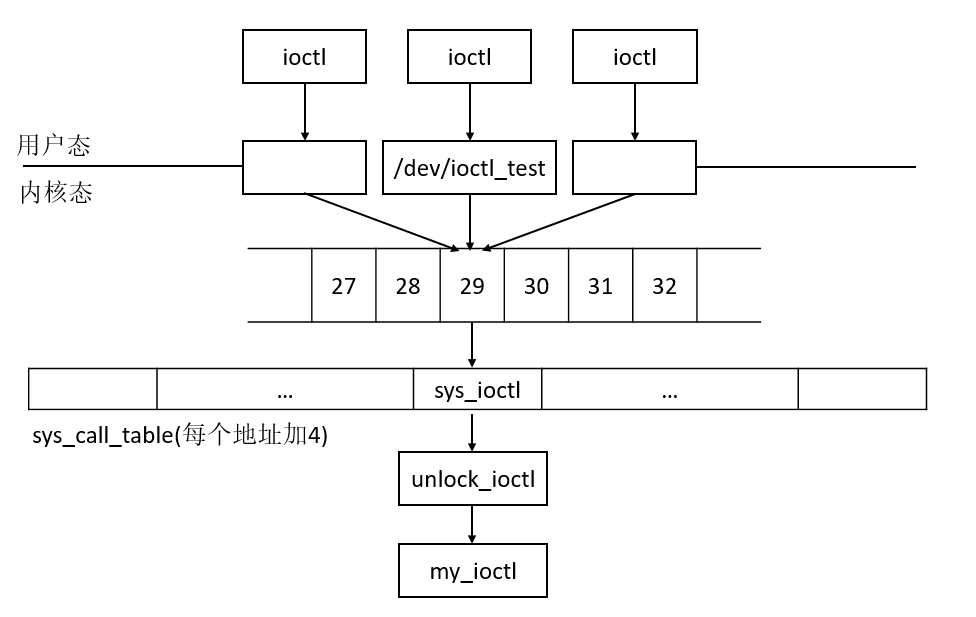
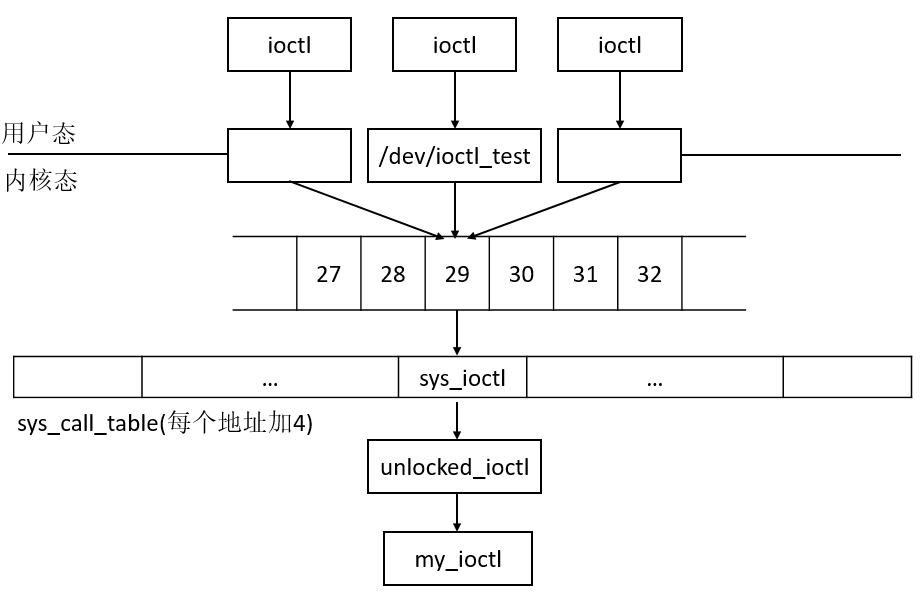
【CoolFly】【需求】【博客】【详细描述：CoolFly的第75次提交，ioctl的内容更新1次】【功能影响：ioctl的内容更新1次】【验证：自测ok】

Changed region(s): [[0.0, 0.0297, 1.0, 0.9802]]

diff --git a/2022/07/ioctl通信方式之初出茅庐/index.html b/2022/07/ioctl通信方式之初出茅庐/index.html
@@ -276,25 +276,64 @@
 </div>
           
 		  
-		  <h5 id="wc" style="font-size: 1rem;text-align: center;">1600 Words|Read in about 8 Min|本文总阅读量<span id="busuanzi_value_page_pv"></span>次</h5>
+		  <h5 id="wc" style="font-size: 1rem;text-align: center;">1900 Words|Read in about 9 Min|本文总阅读量<span id="busuanzi_value_page_pv"></span>次</h5>
 		  
           <div class="post-content markdown" itemprop="articleBody">
             <div class="main-content-wrap">
               <p>我们通常用ioctl函数直接访问到内核，在内核执行操作，执行读写操作。那么这个函数指令的原理是什么，本文就展开介绍和使用一下ioctl。</p>
 <h1 id="1ioctl简介">1ioctl简介</h1>
-<p>2.1 ioctl通信方式</p>
-<p>2.1.1 概述</p>
-<p>从ioctl这个名称上看,它是设备驱动程序中对设备的I/O通道进行管理的函数。所谓对I/O通道进行管理，就是对设备的一些特性进行控制。例如串口的传输波特率、马达的转速等等, 但实际上ioctl所处理的对象并不限制是真正的I/O设备，还可以是其它任何一个内核设备。</p>
-<p>ioctl以系统调用的形式提供了一条用户与内核交互的便捷途径。ioctl 这种方式的特点是用户层为主动，当用户层通过ioctl下发指令，内核给出相应的操作，具体的细节由自己实现的代码决定。</p>
-<p>2.1.2 基本原理</p>
-<p>内核实现ioctl()函数的是sys_ioctl().在内核中主要调用框架图如下,它清晰地给我们展示了ioctl的控制传递框架</p>
+<h2 id="11什么是ioctl">1.1什么是ioctl</h2>
+<blockquote>
+<p>从ioctl这个名称上看，它是设备驱动程序中对设备的I/O通道进行管理的函数。</p>
+<p>所谓对I/O通道进行管理，就是对设备的一些特性进行控制。例如串口的传输波特率、马达的转速等等, 但实际上<strong>ioctl所处理的对象并不限制是真正的I/O设备</strong>，还可以是其它任何一个内核设备。</p>
+</blockquote>
+<p>说白了，ioctl以系统调用的形式提供了一<strong>条用户与内核交互的便捷途径</strong>。ioctl 这种方式的特点是用户层为主动，当用户层通过ioctl下发指令，内核给出相应的操作，具体的细节由自己实现的代码决定。</p>
+<h2 id="12-基本原理">1.2 基本原理</h2>
 <p>kernel3.0之前，叫ioctl，之后改名为unlocked_ioctl。功能和接口基本相同，名字发生了变化</p>
 <p>ioctl既可以往内核读也可以写，read/write在执行大数据量读/写时比较有优势。</p>
-<p>在应用层调用ioctl函数时，内核会调用对应驱动中的ublocked_ioctl函数，向内核读写数据。</p>
+<p>在应用层调用ioctl函数时，内核会调用对应驱动中的unlocked_ioctl函数，向内核读写数据。</p>
 <p>笔者这里的kernel直接参考<a href="https://git.kernel.org/pub/scm/linux/kernel/git/torvalds/linux.git/tree/?h=v5.19-rc7">最新</a>的kernel-v5.19源码来分析。</p>
+<p>内核实现ioctl()函数的是sys_ioctl()。内核中主要调用框架图如下图所示</p>
+
+
+ 
+  
+  
+  
+  
+    
+  
+    
+      
+    
+  
+    
+      
+    
+  
+
+<div class="figure center fig-100" >
+  
+    <a class="fancybox" href="https://yangyang48.github.io/ioctl/ioctl_4.png" data-fancybox-group="">
+  
+    <img class="fig-img" src="https://yangyang48.github.io/ioctl/ioctl_4.png" >
+  
+    </a>
+  
+  
+</div>
+
+<blockquote>
+<p>至于为什么在驱动层中还会看到<code>compat_ioctl</code></p>
+<p>这是因为为了<strong>相容性</strong>而出现的<code>compat_ioctl</code>。为了让32-bit的进程可以在64-bit上的system来执行ioctl这个函数。</p>
+</blockquote>
 <h1 id="2通信流程">2通信流程</h1>
 <h2 id="21调用用户态的ioctl函数">2.1调用用户态的ioctl函数</h2>
-<h2 id="22在系统调用表中找到ioctl函数对应的函数名">2.2在系统调用表中找到ioctl函数对应的函数名</h2>
+<p>在用户态只有函数的声明，最终的实现是在内核态，也就是内核态封装了一个函数可以用于用户态的调用。</p>
+<p>驱动程序中的ioctl属于内核空间，然而应用程序属于用户空间，没有权限访问内核空间，那么需要系统需要从用户态转为内核态，在系统调用中，是通过**<code>SWI</code>(Software Interrupt)的方式**陷入内核态的，这里实际上是一个靠**软中断**实现的。</p>
+<div class="highlight"><pre class="chroma"><code class="language-c" data-lang="c"><span class="ln">1</span><span class="c1">//development/ndk/platforms/android-30/include/sys/ioctl.h
+</span><span class="ln">2</span><span class="c1"></span><span class="kt">int</span> <span class="nf">ioctl</span><span class="p">(</span><span class="kt">int</span> <span class="n">fd</span><span class="p">,</span> <span class="kt">int</span> <span class="n">cmd</span><span class="p">,</span> <span class="p">...)</span> <span class="p">;</span>
+</code></pre></div><h2 id="22在系统调用表中找到ioctl函数对应的函数名">2.2在系统调用表中找到ioctl函数对应的函数名</h2>
 <p>首先找到定义的位置</p>
 <div class="highlight"><pre class="chroma"><code class="language-c" data-lang="c"><span class="ln"> 1</span><span class="c1">//kernel/include/uapi/asm-generic/unistd.h
 </span><span class="ln"> 2</span><span class="c1"></span><span class="cp">#ifndef __SYSCALL
@@ -336,7 +375,7 @@
 </span><span class="ln">4</span><span class="c1"></span><span class="kt">int</span> <span class="n">my_array</span><span class="p">[</span><span class="mi">6</span><span class="p">]</span> <span class="o">=</span> <span class="p">{</span> <span class="p">[</span><span class="mi">4</span><span class="p">]</span> <span class="mi">29</span><span class="p">,</span> <span class="p">[</span><span class="mi">2</span><span class="p">]</span> <span class="mi">15</span> <span class="p">};</span>     
 <span class="ln">5</span><span class="c1">//两者均等价于：
 </span><span class="ln">6</span><span class="c1"></span><span class="kt">int</span> <span class="n">my_array</span><span class="p">[</span><span class="mi">6</span><span class="p">]</span> <span class="o">=</span> <span class="p">{</span><span class="mi">0</span><span class="p">,</span> <span class="mi">0</span><span class="p">,</span> <span class="mi">15</span><span class="p">,</span> <span class="mi">0</span><span class="p">,</span> <span class="mi">29</span><span class="p">,</span> <span class="mi">0</span><span class="p">};</span>
-</code></pre></div><p>直到对应的语法之后，其中#include&lt;asm/unistd.h&gt;就是罗列了所有的系统调用函数名。</p>
+</code></pre></div><p>直到对应的语法之后，其中<code>#include&lt;asm/unistd.h&gt;</code>就是罗列了所有的系统调用函数名。</p>
 <div class="highlight"><pre class="chroma"><code class="language-c" data-lang="c"><span class="ln"> 1</span><span class="c1">//所以得到的ioctl函数就是下面这个宏定义
 </span><span class="ln"> 2</span><span class="c1"></span><span class="n">__SYSCALL</span><span class="p">(</span><span class="mi">0</span><span class="p">,</span> <span class="n">sys_io_setup</span><span class="p">)</span>
 <span class="ln"> 3</span><span class="n">__SYSCALL</span><span class="p">(</span><span class="mi">1</span><span class="p">,</span> <span class="n">sys_io_destroy</span><span class="p">)</span>
@@ -352,8 +391,8 @@
 <span class="ln">13</span><span class="p">[</span><span class="mi">29</span><span class="p">]</span> <span class="o">=</span> <span class="n">sys_ioctl</span><span class="p">,</span>
 <span class="ln">14</span><span class="p">...</span>
 </code></pre></div><p>那么现在替换之后再来看系统调用表</p>
-<p>其中，NR_syscalls这个数是在#include&lt;asm/unistd.h&gt;中实际的系统调用函数名数量，比如435。那么NR_syscalls就会被435替换。</p>
-<p>这个sys_call_table数组中的[0 &hellip; 434]是用于初始化的操作，其中这个sys_ni_syscall函数名返回的是-ENOSYS，说明如果没有找到#include&lt;asm/unistd.h&gt;中对应的函数，直接返回系统调用表初始化错误。</p>
+<p>其中，<code>NR_syscall</code>s这个数是在<code>#include&lt;asm/unistd.h&gt;</code>中实际的系统调用函数名数量，比如435。那么<code>NR_syscalls</code>就会被435替换。</p>
+<p>这个<code>sys_call_table</code>数组中的[0 &hellip; 434]是用于初始化的操作，其中这个<code>sys_ni_syscall</code>函数名返回的是<code>-ENOSYS</code>，说明如果没有找到<code>#include&lt;asm/unistd.h&gt;</code>中对应的函数，直接返回系统调用表初始化错误。</p>
 <p>后面的操作，是相当于对其重新赋值，让每一个系统调用表数组都能够对应一个函数名，那么在找这个函数名的过程，只需要记住这个函数名在表中对应的序号即可，这里的ioctl函数，对应的就是29序号。即在系统调用表中找到ioctl函数对应的函数名为sys_ioctl。</p>
 <div class="highlight"><pre class="chroma"><code class="language-c" data-lang="c"><span class="ln"> 1</span><span class="c1">//kernel/arch/arc/kernel/sys.c
 </span><span class="ln"> 2</span><span class="c1"></span><span class="cp">#define __SYSCALL(nr, call) [nr] = (call),
@@ -367,13 +406,45 @@
 <span class="ln">10</span>    <span class="p">[</span><span class="mi">29</span><span class="p">]</span> <span class="o">=</span> <span class="n">sys_ioctl</span><span class="p">,</span>
 <span class="ln">11</span>    <span class="p">...</span>
 <span class="ln">12</span><span class="p">};</span>
-</code></pre></div><p>应用程序告诉内核自己需要执行一个系统调用时，通知内核的机制是靠软中断实现的：通过引发一个异常促使系统切换到内核去执行异常处理程序。该异常处理程序实际就是系统调用处理程序。在x86系统上。通过int$0x80指令触发该中断。这条指令会触发一个异常导致系统切换到内核态并执行第128号异常处理程序&mdash;-系统调用处理程序。系统调用处理程序叫system_call()，它与硬件体系结构紧密相关，在x86-64位系统上在entry_64.S文件中，用汇编语言编写。</p>
-<p>system_call函数通过将给定的系统调用号（eax的值）与NR_syscalls做比较来检查其有效性。如果它大于或等于NR_syscalls，该函数返回-ENOSYS。否则执行相应的系统调用：call *sys_call_table(,%rax,4)。由于系统调用表中的表项是以32位（4字节）类型存放的，所以内核需要将给定的系统调用号乘以4。</p>
-<p>除了系统调用号以外，大部分系统调用都还需要一些外部的参数输入，所以需要把这些参数从用户空间传给内核。最简单的方法就是像传递系统调用参数那样也存放在寄存器里。在x83-32系统上，ebx,ecx,edx,esi,edi按照顺序存放前五个参数。需要六个或者以上的参数，应该用一个单独的寄存器存放指向所有这些参数在用户空间地址的指针。给用户空间的返回值也通过寄存器传递。在x86系统上存放在eax寄存器里。</p>
+</code></pre></div><blockquote>
+<p>关于<code>system_call</code>系统调用</p>
+<p>因为上述得到的是系统调用表，而系统调用需要在这个系统调用表中查询。</p>
+<p>通过软中断引发一个异常促使系统切换到内核去执行异常处理程序。该异常处理程序实际就是系统调用处理程序。这条指令会触发一个异常导致系统切换到内核态并执行第128号异常处理程序&mdash;-系统调用处理程序。系统调用处理程序叫<code>system_call()</code>，它与硬件体系结构紧密相关，用汇编语言编写。</p>
+<p>应用程序告诉内核自己需要执行一个系统调用时，通知内核的机制是靠<code>system_call</code>函数通过将给定的系统调用号（<code>eax</code>的值）与<code>NR_syscalls</code>做比较来检查其有效性（<code>eax</code>代表寄存器）。如果它大于或等于<code>NR_syscalls</code>，该函数返回<code>-ENOSYS</code>。否则执行相应的系统调用：<code>call *sys_call_table(,%eax,4)</code>。由于系统调用表中的表项是以32位（4字节）类型存放的，所以内核需要将给定的系统调用号乘以4。</p>
+<p>除了系统调用号以外，大部分系统调用都还需要一些外部的参数输入，所以需要把<strong>这些参数从用户空间传给内核</strong>。最简单的方法就是像传递系统调用参数那样也存放在寄存器里。</p>
+</blockquote>
 <p>对应的系统调用流程如下</p>
-<p><img src="D:%5Chugo%5CMyBlog%5Cstatic%5Cioctl%5Cioctl_1.png" alt="ioctl_1"></p>
+
+
+ 
+  
+  
+  
+  
+    
+  
+    
+      
+    
+  
+    
+      
+    
+  
+
+<div class="figure center fig-100" >
+  
+    <a class="fancybox" href="https://yangyang48.github.io/ioctl/ioctl_1.png" data-fancybox-group="">
+  
+    <img class="fig-img" src="https://yangyang48.github.io/ioctl/ioctl_1.png" >
+  
+    </a>
+  
+  
+</div>
+
 <h2 id="23找到内核中对应的函数指针">2.3找到内核中对应的函数指针</h2>
-<p>找到了函数名sys_ioctl，就要去找对应的定义和实现</p>
+<p>找到了函数名<code>sys_ioctl</code>，就要去找对应的定义和实现</p>
 <p>定义</p>
 <div class="highlight"><pre class="chroma"><code class="language-c" data-lang="c"><span class="ln">1</span><span class="c1">//kernel/include/linux/syscalls.h
 </span><span class="ln">2</span><span class="c1"></span><span class="n">asmlinkage</span> <span class="kt">long</span> <span class="nf">sys_ioctl</span><span class="p">(</span><span class="kt">unsigned</span> <span class="kt">int</span> <span class="n">fd</span><span class="p">,</span> <span class="kt">unsigned</span> <span class="kt">int</span> <span class="n">cmd</span><span class="p">,</span> <span class="kt">unsigned</span> <span class="kt">long</span> <span class="kt">long</span><span class="p">);</span>
@@ -402,7 +473,7 @@
 <span class="ln">22</span><span class="p">}</span>
 </code></pre></div><blockquote>
 <p>补充说明</p>
-<p>为什么SYSCALL_DEFINE3就是sys_ioctl。实际上这里的3代表有三个参数的意思，具体拆解可以点击<a href="https://blog.csdn.net/weixin_43798887/article/details/118930476">这里</a>，找到宏定义是如何一步步展开的，这里简单阐述。</p>
+<p>为什么<code>SYSCALL_DEFINE3</code>就是<code>sys_ioctl</code>。实际上这里的3代表有三个参数的意思，具体拆解可以点击<a href="https://blog.csdn.net/weixin_43798887/article/details/118930476">这里</a>，找到宏定义是如何一步步展开的，这里简单阐述。</p>
 <div class="highlight"><pre class="chroma"><code class="language-c" data-lang="c"><span class="ln">1</span><span class="c1">//include/linux/syscalls.h
 </span><span class="ln">2</span><span class="c1"></span><span class="cp">#define SYSCALL_DEFINE3(name, ...)  SYSCALL_DEFINEx(3, _##name, __VA_ARGS__)
 </span><span class="ln">3</span><span class="cp">#define SYSCALL_DEFINEx(x, sname, ...)	__SYSCALL_DEFINEx(x, sname, __VA_ARGS__)
@@ -520,8 +591,73 @@
 <span class="ln">13</span> <span class="nl">out</span><span class="p">:</span>
 <span class="ln">14</span>	<span class="k">return</span> <span class="n">error</span><span class="p">;</span>
 <span class="ln">15</span><span class="p">}</span>	
-</code></pre></div><p>//补充部分unlocked_ioctl到my_ioctl</p>
-<h2 id="25-ioctl-用户与驱动之间的协议">2.5 ioctl 用户与驱动之间的协议</h2>
+</code></pre></div><p>这里先关注以下filp-&gt;f_op-&gt;unlocked_ioctl，很明显这里有两个结构体，一个是struct file，另外一个是struct file_operations</p>
+<p><strong>struct file</strong></p>
+<p>这里的结构体相对比较复杂，我们只关注相关的结构体即可</p>
+<div class="highlight"><pre class="chroma"><code class="language-c" data-lang="c"><span class="ln"> 1</span><span class="c1">//kernel/include/linux/fs.h
+</span><span class="ln"> 2</span><span class="c1"></span><span class="k">struct</span> <span class="n">file</span> <span class="p">{</span>
+<span class="ln"> 3</span>	<span class="k">union</span> <span class="p">{</span>
+<span class="ln"> 4</span>		<span class="k">struct</span> <span class="n">llist_node</span>	<span class="n">fu_llist</span><span class="p">;</span>
+<span class="ln"> 5</span>		<span class="k">struct</span> <span class="n">rcu_head</span> 	<span class="n">fu_rcuhead</span><span class="p">;</span>
+<span class="ln"> 6</span>	<span class="p">}</span> <span class="n">f_u</span><span class="p">;</span>
+<span class="ln"> 7</span>	<span class="k">struct</span> <span class="n">path</span>		<span class="n">f_path</span><span class="p">;</span>
+<span class="ln"> 8</span>	<span class="k">struct</span> <span class="n">inode</span>		<span class="o">*</span><span class="n">f_inode</span><span class="p">;</span>	<span class="cm">/* cached value */</span>
+<span class="ln"> 9</span>	<span class="k">const</span> <span class="k">struct</span> <span class="n">file_operations</span>	<span class="o">*</span><span class="n">f_op</span><span class="p">;</span>
+<span class="ln">10</span>
+<span class="ln">11</span>	<span class="cm">/*
+</span><span class="ln">12</span><span class="cm">	 * Protects f_ep, f_flags.
+</span><span class="ln">13</span><span class="cm">	 * Must not be taken from IRQ context.
+</span><span class="ln">14</span><span class="cm">	 */</span>
+<span class="ln">15</span>	<span class="n">spinlock_t</span>		<span class="n">f_lock</span><span class="p">;</span>
+<span class="ln">16</span>	<span class="n">atomic_long_t</span>		<span class="n">f_count</span><span class="p">;</span>
+<span class="ln">17</span>	<span class="kt">unsigned</span> <span class="kt">int</span> 		<span class="n">f_flags</span><span class="p">;</span>
+<span class="ln">18</span>	<span class="n">fmode_t</span>			<span class="n">f_mode</span><span class="p">;</span>
+<span class="ln">19</span>	<span class="k">struct</span> <span class="n">mutex</span>		<span class="n">f_pos_lock</span><span class="p">;</span>
+<span class="ln">20</span>	<span class="n">loff_t</span>			<span class="n">f_pos</span><span class="p">;</span>
+<span class="ln">21</span>	<span class="k">struct</span> <span class="n">fown_struct</span>	<span class="n">f_owner</span><span class="p">;</span>
+<span class="ln">22</span>	<span class="k">const</span> <span class="k">struct</span> <span class="n">cred</span>	<span class="o">*</span><span class="n">f_cred</span><span class="p">;</span>
+<span class="ln">23</span>	<span class="k">struct</span> <span class="n">file_ra_state</span>	<span class="n">f_ra</span><span class="p">;</span>
+<span class="ln">24</span>
+<span class="ln">25</span>	<span class="n">u64</span>			<span class="n">f_version</span><span class="p">;</span>
+<span class="ln">26</span><span class="cp">#ifdef CONFIG_SECURITY
+</span><span class="ln">27</span><span class="cp"></span>	<span class="kt">void</span>			<span class="o">*</span><span class="n">f_security</span><span class="p">;</span>
+<span class="ln">28</span><span class="cp">#endif
+</span><span class="ln">29</span><span class="cp"></span>	<span class="cm">/* needed for tty driver, and maybe others */</span>
+<span class="ln">30</span>	<span class="kt">void</span>			<span class="o">*</span><span class="n">private_data</span><span class="p">;</span>
+<span class="ln">31</span>
+<span class="ln">32</span><span class="cp">#ifdef CONFIG_EPOLL
+</span><span class="ln">33</span><span class="cp"></span>	<span class="cm">/* Used by fs/eventpoll.c to link all the hooks to this file */</span>
+<span class="ln">34</span>	<span class="k">struct</span> <span class="n">hlist_head</span>	<span class="o">*</span><span class="n">f_ep</span><span class="p">;</span>
+<span class="ln">35</span><span class="cp">#endif </span><span class="cm">/* #ifdef CONFIG_EPOLL */</span><span class="cp">
+</span><span class="ln">36</span><span class="cp"></span>	<span class="k">struct</span> <span class="n">address_space</span>	<span class="o">*</span><span class="n">f_mapping</span><span class="p">;</span>
+<span class="ln">37</span>	<span class="n">errseq_t</span>		<span class="n">f_wb_err</span><span class="p">;</span>
+<span class="ln">38</span>	<span class="n">errseq_t</span>		<span class="n">f_sb_err</span><span class="p">;</span> <span class="cm">/* for syncfs */</span>
+<span class="ln">39</span><span class="p">}</span> <span class="n">__randomize_layout</span>
+<span class="ln">40</span>  <span class="n">__attribute__</span><span class="p">((</span><span class="n">aligned</span><span class="p">(</span><span class="mi">4</span><span class="p">)));</span>	<span class="cm">/* lest something weird decides that 2 is OK */</span>
+</code></pre></div><p><strong>struct file_operations</strong></p>
+<div class="highlight"><pre class="chroma"><code class="language-c" data-lang="c"><span class="ln"> 1</span><span class="c1">//kernel/include/linux/fs.h
+</span><span class="ln"> 2</span><span class="c1"></span><span class="k">struct</span>  <span class="n">file_operations</span> <span class="p">{</span> 
+<span class="ln"> 3</span>	<span class="k">struct</span> <span class="n">module</span> <span class="o">*</span> <span class="n">owner</span><span class="p">;</span>
+<span class="ln"> 4</span>	<span class="n">loff_t</span> <span class="p">(</span><span class="o">*</span> <span class="n">llseek</span> <span class="p">)</span> <span class="p">(</span><span class="k">struct</span> <span class="n">file</span> <span class="o">*</span><span class="p">,</span> <span class="n">loff_t</span> <span class="p">,</span> <span class="kt">int</span> <span class="p">);</span> 
+<span class="ln"> 5</span>	<span class="n">ssize_t</span> <span class="p">(</span><span class="o">*</span> <span class="n">read</span> <span class="p">)</span> <span class="p">(</span><span class="k">struct</span> <span class="n">file</span> <span class="o">*</span><span class="p">,</span> <span class="kt">char</span> <span class="n">__user</span> <span class="o">*</span><span class="p">,</span> <span class="n">size_t</span> <span class="p">,</span> <span class="n">loff_t</span> <span class="o">*</span><span class="p">);</span> 
+<span class="ln"> 6</span>	<span class="n">ssize_t</span> <span class="p">(</span><span class="o">*</span> <span class="n">write</span> <span class="p">)</span> <span class="p">(</span><span class="k">struct</span> <span class="n">file</span> <span class="o">*</span><span class="p">,</span> <span class="k">const</span> <span class="kt">char</span> <span class="n">__user</span> <span class="o">*</span><span class="p">,</span> <span class="n">size_t</span> <span class="p">,</span> <span class="n">loff_t</span> <span class="o">*</span><span class="p">);</span> 
+<span class="ln"> 7</span>	<span class="n">ssize_t</span> <span class="p">(</span><span class="o">*</span><span class="n">read_iter</span><span class="p">)</span> <span class="p">(</span><span class="k">struct</span> <span class="n">kiocb</span> <span class="o">*</span><span class="p">,</span> <span class="k">struct</span> <span class="n">iov_iter</span> <span class="o">*</span><span class="p">);</span> 
+<span class="ln"> 8</span>	<span class="n">ssize_t</span><span class="p">(</span><span class="o">*</span><span class="n">write_iter</span><span class="p">)</span> <span class="p">(</span><span class="k">struct</span> <span class="n">kiocb</span> <span class="o">*</span><span class="p">,</span> <span class="k">struct</span> <span class="n">iov_iter</span> <span class="o">*</span><span class="p">);</span> 
+<span class="ln"> 9</span>	<span class="kt">int</span> <span class="p">(</span><span class="o">*</span><span class="n">iterate</span><span class="p">)</span> <span class="p">(</span><span class="k">struct</span> <span class="n">file</span> <span class="o">*</span><span class="p">,</span> <span class="k">struct</span> <span class="n">dir_context</span> <span class="o">*</span><span class="p">);</span> 
+<span class="ln">10</span>	<span class="kt">unsigned</span> <span class="nf">int</span> <span class="p">(</span><span class="o">*</span><span class="n">poll</span><span class="p">)</span> <span class="p">(</span><span class="k">struct</span> <span class="n">file</span> <span class="o">*</span><span class="p">,</span> <span class="k">struct</span> <span class="n">poll_table_struct</span> <span class="o">*</span><span class="p">)</span> <span class="p">;</span> 
+<span class="ln">11</span>	<span class="kt">long</span> <span class="p">(</span><span class="o">*</span><span class="n">unlocked_ioctl</span><span class="p">)</span> <span class="p">(</span><span class="k">struct</span> <span class="n">file</span> <span class="o">*</span><span class="p">,</span> <span class="kt">unsigned</span> <span class="kt">int</span> <span class="p">,</span> <span class="kt">unsigned</span> <span class="kt">long</span> <span class="p">);</span> 
+<span class="ln">12</span>	<span class="kt">long</span> <span class="p">(</span><span class="o">*</span><span class="n">compat_ioctl</span><span class="p">)</span> <span class="p">(</span><span class="k">struct</span> <span class="n">file</span> <span class="o">*</span><span class="p">,</span> <span class="kt">unsigned</span> <span class="kt">int</span> <span class="p">,</span> <span class="kt">unsigned</span> <span class="kt">long</span> <span class="p">);</span> 
+<span class="ln">13</span>	<span class="kt">int</span> <span class="p">(</span><span class="o">*</span><span class="n">mmap</span><span class="p">)</span> <span class="p">(</span><span class="k">struct</span> <span class="n">file</span> <span class="o">*</span><span class="p">,</span> <span class="k">struct</span> <span class="n">vm_area_struct</span> <span class="o">*</span><span class="p">);</span> 
+<span class="ln">14</span>	<span class="p">...</span>
+<span class="ln">15</span><span class="p">}</span>
+</code></pre></div><p>可以自定义在文件操作集中，那么函数指针实际调用的就是<code>unlocked_ioctl</code>赋值的函数名，直到这里才真正意义上的把ioctl的流程完整的对应起来了。</p>
+<div class="highlight"><pre class="chroma"><code class="language-c" data-lang="c"><span class="ln">1</span><span class="c1">//文件操作集
+</span><span class="ln">2</span><span class="c1"></span><span class="k">struct</span> <span class="n">file_operations</span> <span class="n">misc_fops</span> <span class="o">=</span> <span class="p">{</span>
+<span class="ln">3</span>    <span class="p">...</span>
+<span class="ln">4</span>    <span class="p">.</span><span class="n">unlocked_ioctl</span> <span class="o">=</span> <span class="n">my_ioctl</span>
+<span class="ln">5</span>    <span class="p">...</span>
+<span class="ln">6</span><span class="p">};</span>
+</code></pre></div><h2 id="25-ioctl-用户与驱动之间的协议">2.5 ioctl 用户与驱动之间的协议</h2>
 <p>前文提到 ioctl 方法第二个参数 cmd 为用户与驱动的 “协议”，理论上可以为任意 int 型数据，可以为 0、1、2、3……，但是为了确保该 “协议” 的唯一性，ioctl 命令应该使用更科学严谨的方法赋值，在linux中，提供了一种 ioctl 命令的统一格式，将 32 位 int 型数据划分为四个位段，如下图所示：</p>
 <div class="highlight"><pre class="chroma"><code class="language-txt" data-lang="txt"><span class="ln">1</span>第一个分区：0-7，命令的编号，范围是0-255
 <span class="ln">2</span>第二个分区：8-15，命令的幻数
@@ -531,7 +667,35 @@
 <span class="ln">6</span>
 <span class="ln">7</span>第一和第二分区，主要用来区分命令，不能有两个完全一样的“一+二”
 <span class="ln">8</span>第四分区：00：没有数据传递；10：用户从驱动读数据；01：用户向驱动写数据；11：先写数据到驱动再把数据读出来
-</code></pre></div><p><img src="D:%5Chugo%5CMyBlog%5Cstatic%5Cioctl%5Cioctl_3.png" alt="ioctl_3"></p>
+</code></pre></div>
+
+ 
+  
+  
+  
+  
+    
+  
+    
+      
+    
+  
+    
+      
+    
+  
+
+<div class="figure center fig-100" >
+  
+    <a class="fancybox" href="https://yangyang48.github.io/ioctl/ioctl_3.png" data-fancybox-group="">
+  
+    <img class="fig-img" src="https://yangyang48.github.io/ioctl/ioctl_3.png" >
+  
+    </a>
+  
+  
+</div>
+
 <div class="highlight"><pre class="chroma"><code class="language-c" data-lang="c"><span class="ln">1</span><span class="cp">#define _IOC(dir,type,nr,size) \
 </span><span class="ln">2</span><span class="cp">    (((dir)  &lt;&lt; _IOC_DIRSHIFT) | \
 </span><span class="ln">3</span><span class="cp">     ((type) &lt;&lt; _IOC_TYPESHIFT) | \
@@ -738,7 +902,35 @@ nr（number），命令编号/序数，占据 8 bit，可以为任意 unsigned c
 <span class="ln">22</span><span class="k">if</span> <span class="p">(</span><span class="n">ret</span><span class="p">)</span>
 <span class="ln">23</span>    <span class="k">return</span> <span class="o">-</span><span class="n">EFAULT</span><span class="p">;</span>
 </code></pre></div><p>最终得到的调用流程如下所示，通过用户态调用的ioctl函数设备节点/dev/ioctl_test最终在内核态的my_ioctl实现这个流程。</p>
-<p><img src="D:%5Chugo%5CMyBlog%5Cstatic%5Cioctl%5Cioctl_2.png" alt="ioctl_2"></p>
+
+
+ 
+  
+  
+  
+  
+    
+  
+    
+      
+    
+  
+    
+      
+    
+  
+
+<div class="figure center fig-100" >
+  
+    <a class="fancybox" href="https://yangyang48.github.io/ioctl/ioctl_2.png" data-fancybox-group="">
+  
+    <img class="fig-img" src="https://yangyang48.github.io/ioctl/ioctl_2.png" >
+  
+    </a>
+  
+  
+</div>
+
 <h2 id="33编译">3.3编译</h2>
 <p>kernel在驱动层的编译，需要依赖于Kconfig和Makefile文件；在应用层的编译，需要依赖于Android.mk。</p>
 <h3 id="331驱动层的编译">3.3.1驱动层的编译</h3>
